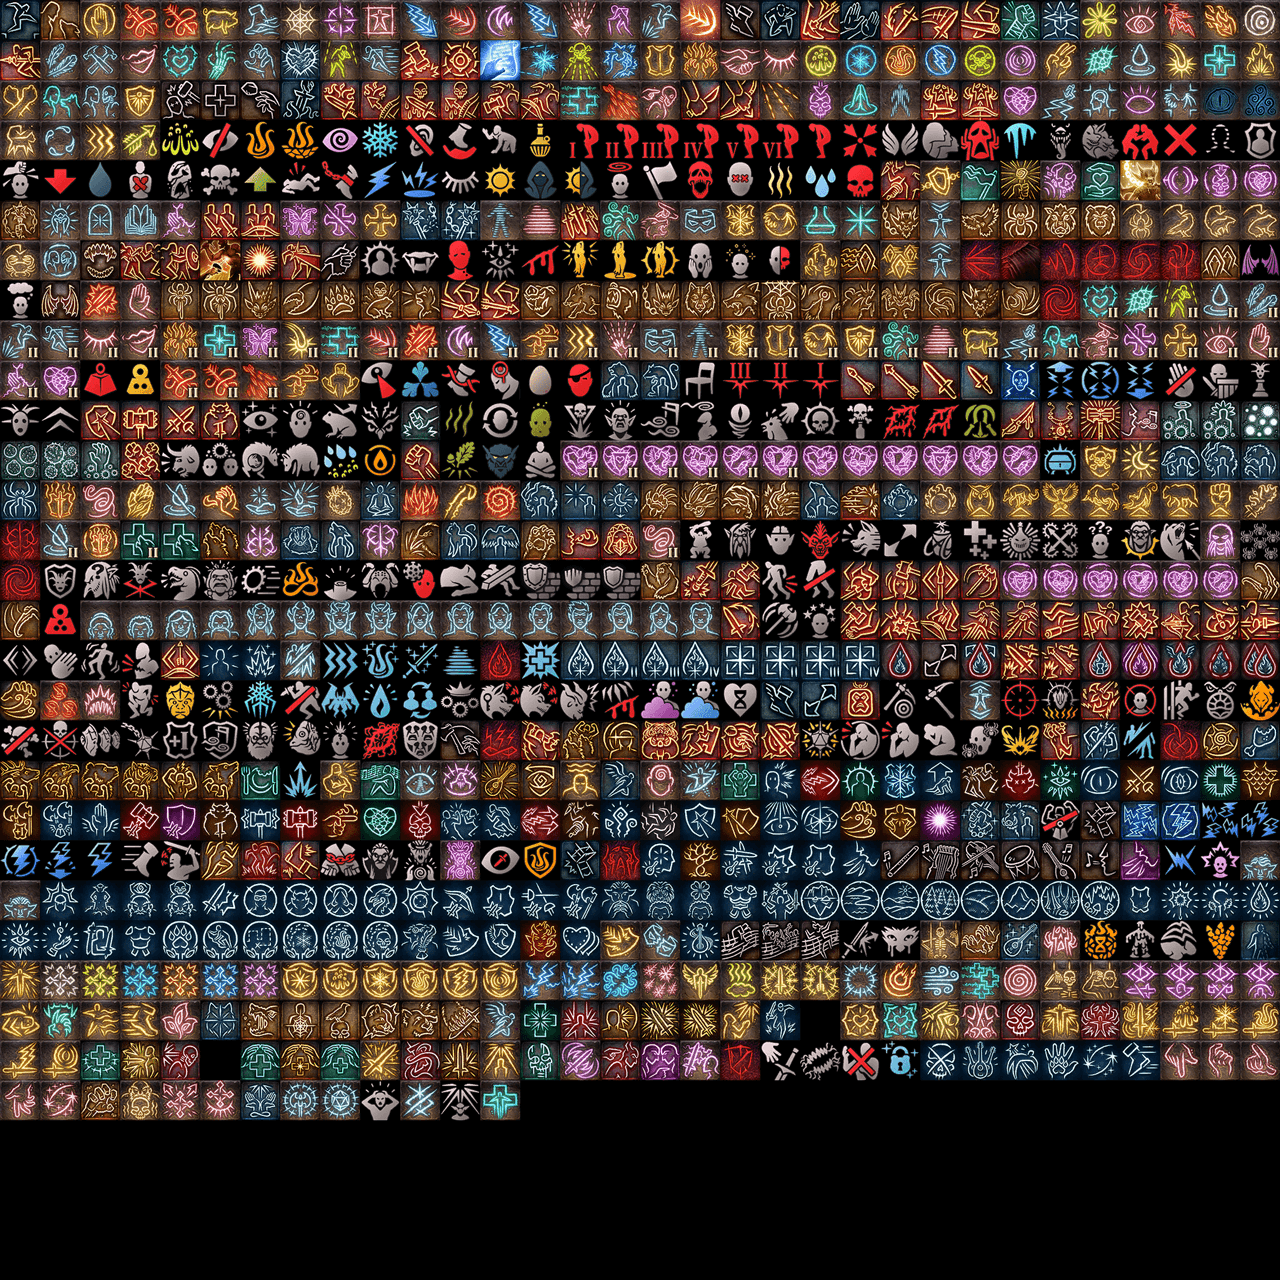
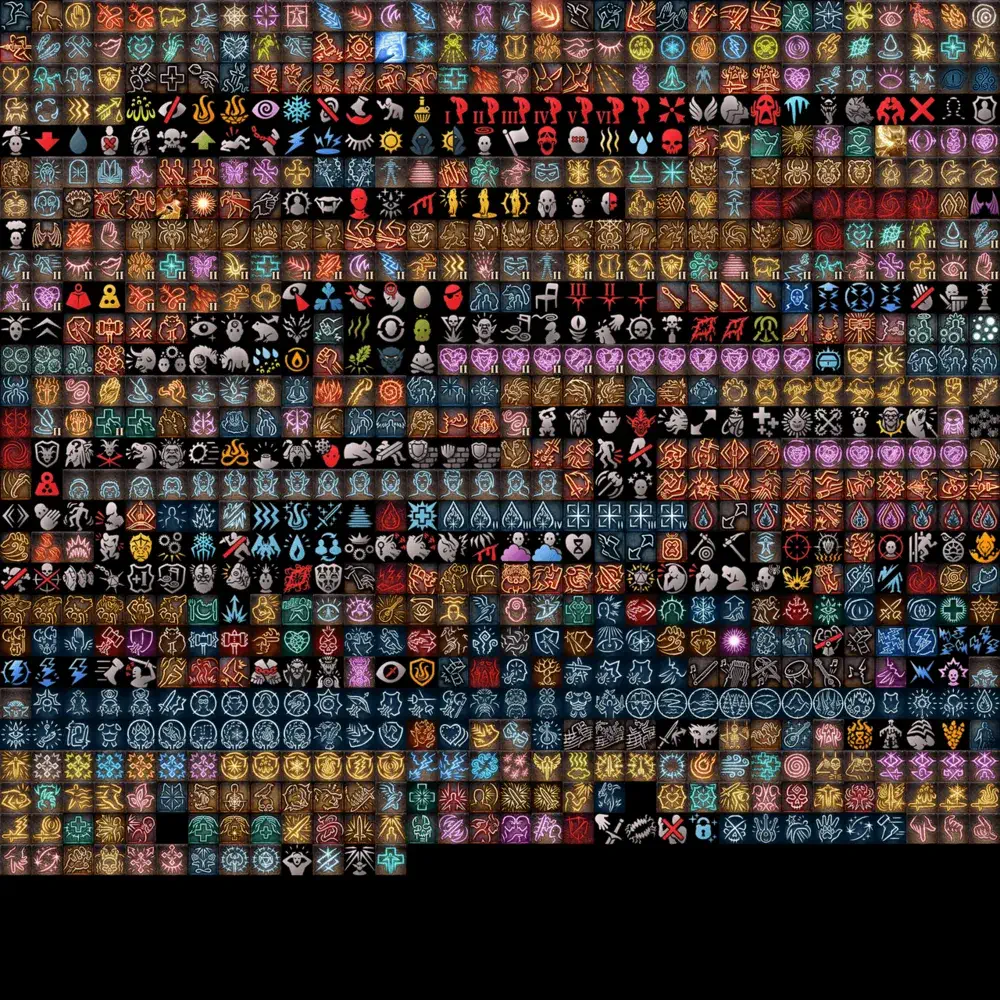
reduce image size

diff --git a/icon.js b/icon.js
@@ -1,7 +1,8 @@
 const icons = {};
 const fs = require('fs');
 const path = require('path');
-
+const iconSiz = 50
+const imgSize= iconSiz/64*2048
 const fx = (p)=>{
     p=path.resolve(__dirname,p)
     const d = path.dirname(p)
@@ -33,6 +34,8 @@ read('./icon/Icons_Skills.lsx')
 
 write('./out/icons.js', `icons=${JSON.stringify(icons, '', ' ')}`);
 const icon = read('./icon/index.html')
+    .replace(/2048px/g, imgSize+'px')
+    .replace(/64px/g, iconSiz+'px')
     .replace('%%', new Date().toLocaleDateString())
 write('./out/index.html', icon)
 fs.copyFileSync(fx('./icon/Icons_Skills.png'), fx('./out/Icons_Skills.png'))

diff --git a/icon/index.html b/icon/index.html
@@ -259,7 +259,6 @@
             display: block;
             width: 64px;
             height: 64px;
-            margin-right: 10px;
             background: rgba(255, 87, 34, .04) url(./Icons_Skills.png);
             background-size: 2048px 2048px
         }
